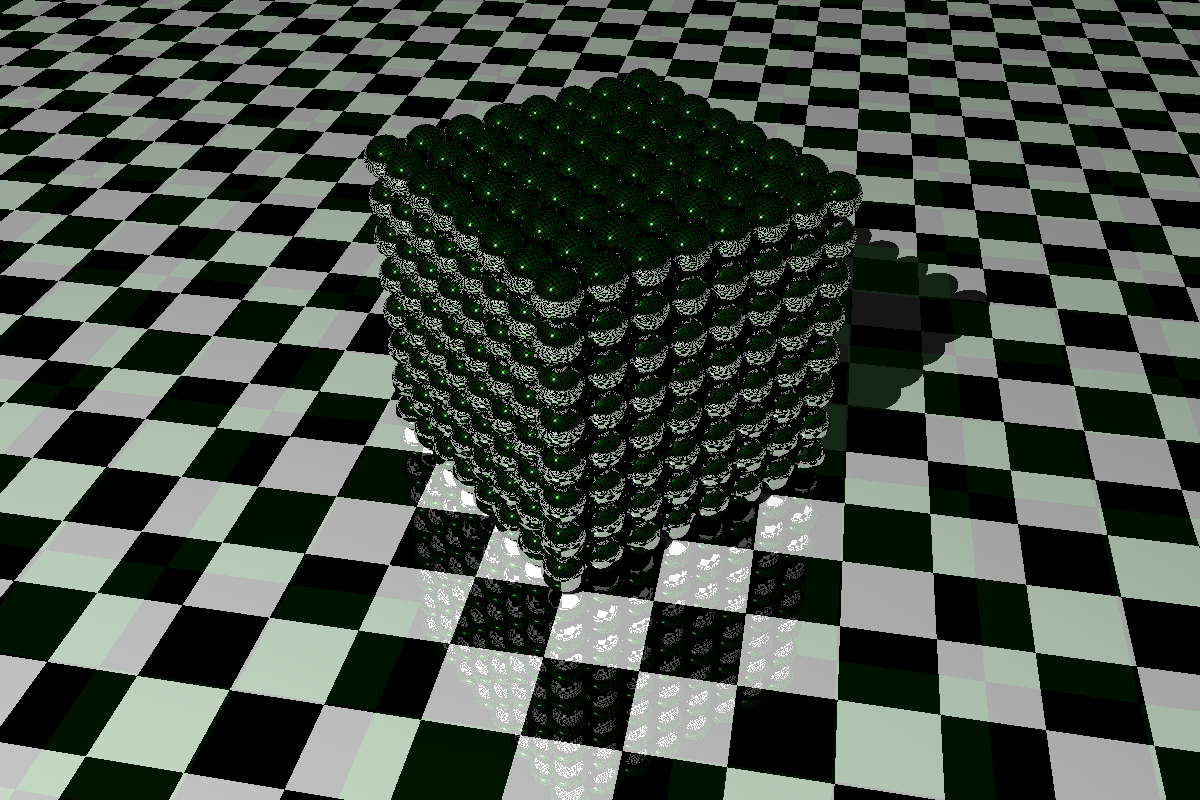
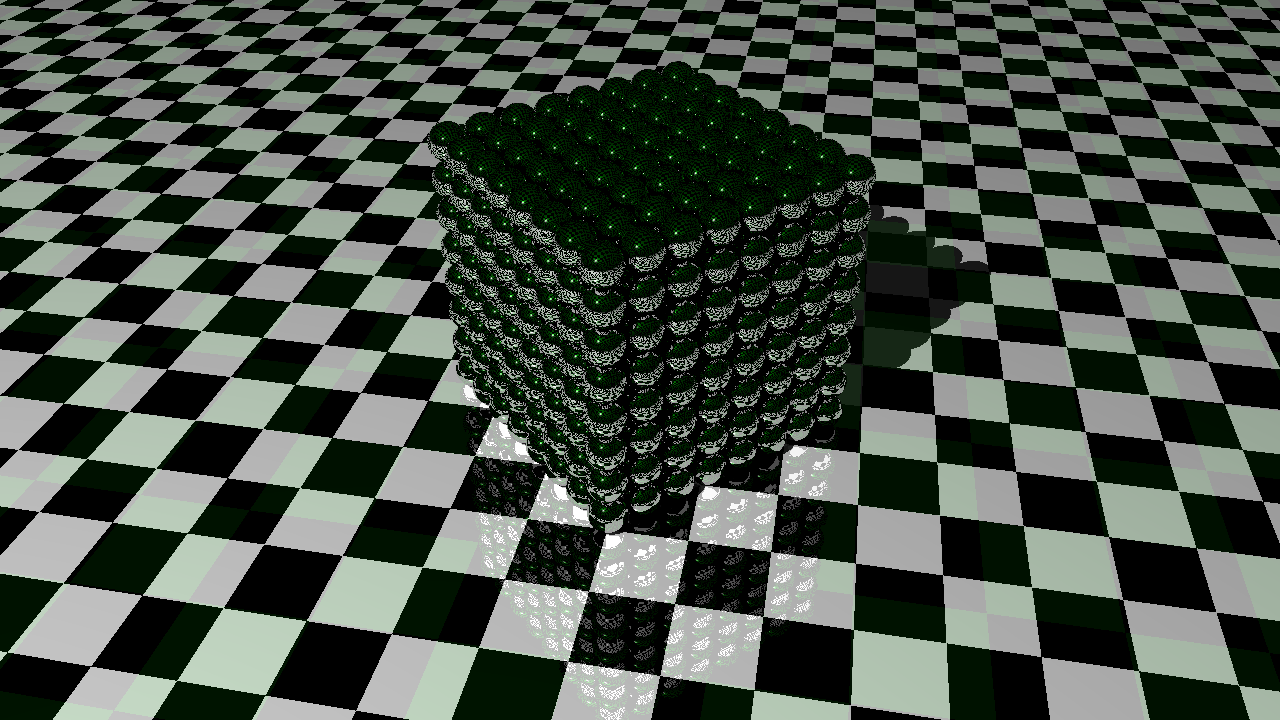
Chapter 11. Reflections and Refractions - refraction - test scenes - standard Sizes

diff --git a/ray_tracer/src/canvas/size.rs b/ray_tracer/src/canvas/size.rs
@@ -24,6 +24,23 @@ impl Size {
     }
 }
 
+impl Size {
+    pub const HD_720P: Size = Self {
+        width: 1280,
+        height: 720,
+    };
+
+    pub const HD_1080P: Size = Self {
+        width: 1920,
+        height: 1080,
+    };
+
+    pub const UHD_4K: Size = Self {
+        width: 3840,
+        height: 2160,
+    };
+}
+
 impl From<Size> for (u32, u32) {
     fn from(value: Size) -> Self {
         (value.width, value.height)
@@ -32,6 +49,6 @@ impl From<Size> for (u32, u32) {
 
 impl Display for Size {
     fn fmt(&self, f: &mut Formatter<'_>) -> std::fmt::Result {
-        write!(f, "{}x{}", self.width, self.height)
+        write!(f, "{}×{}", self.width, self.height)
     }
 }

diff --git a/demo/src/main.rs b/demo/src/main.rs
@@ -20,6 +20,7 @@ fn main() {
     let size_multiplier = 2;
     let size = Size::new(600 * size_multiplier, 400 * size_multiplier);
     render(size, 32);
+    let size = Size::HD_720P;
     GlassSphereWithAir::render_scene(size);
     CubeOfSpheres::render_scene(size);
 }
